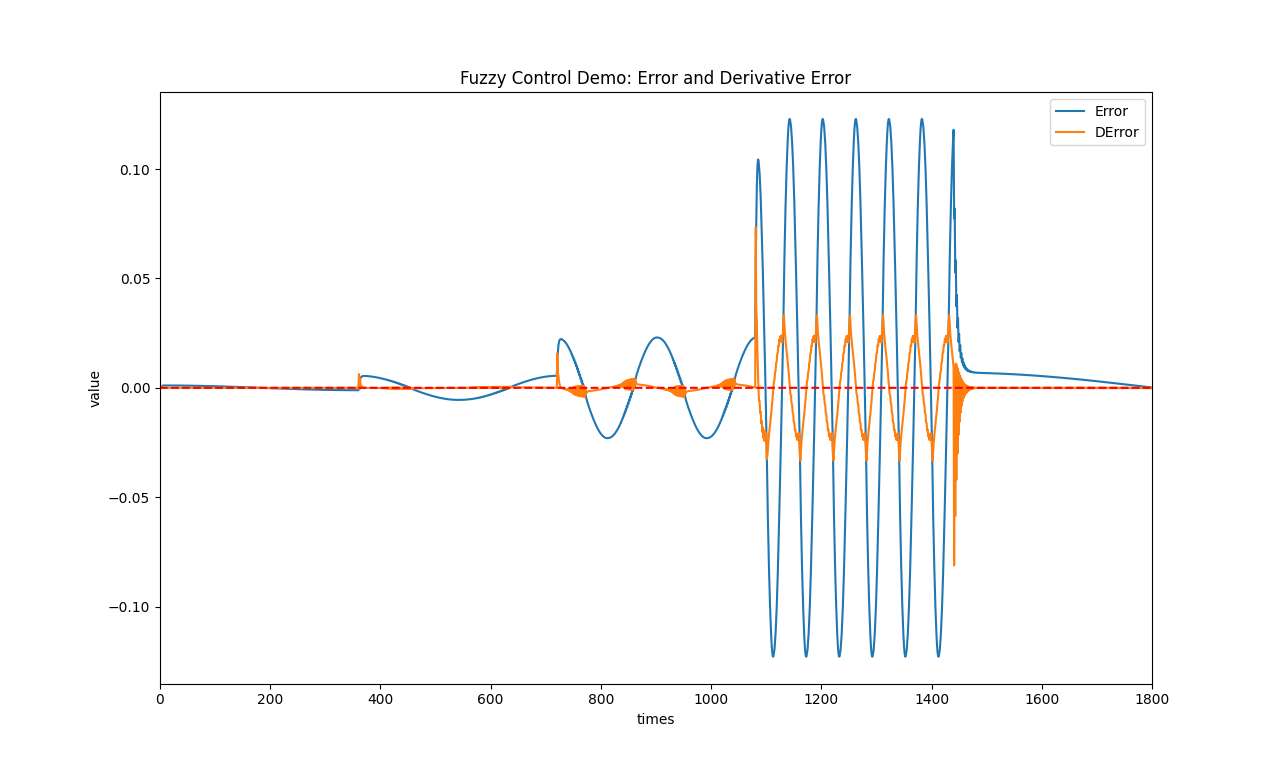
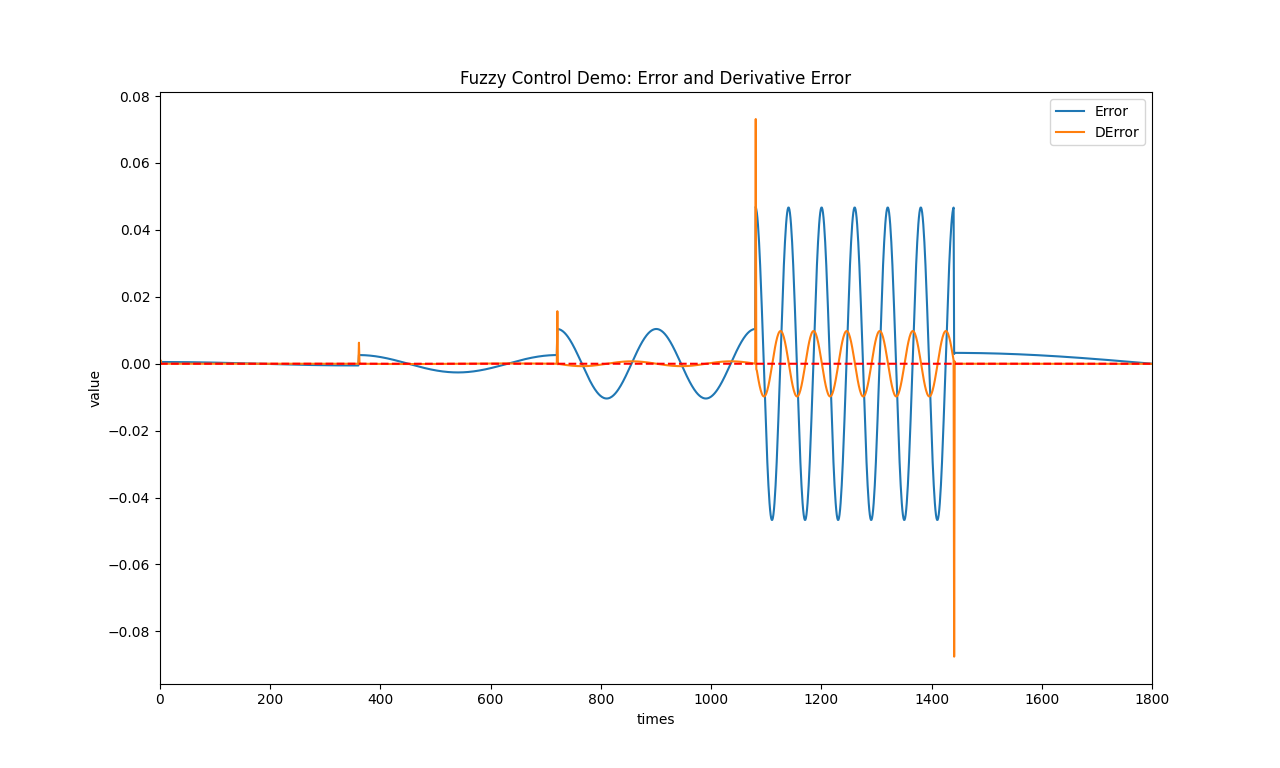
feat: add ratio control for controller switch checker

diff --git a/src/fuzzy_logic.cc b/src/fuzzy_logic.cc
@@ -122,10 +122,9 @@ void FuzzyLogic::rangeCheck(scalar& input, Membership* ptr) {
 }
 
 bool FuzzyLogic::controllerSwitchCheck(void) {
-    scalar ratio = 1.0 / 2.0;
-    if (control_.err > e->membership_->getMaximum() * ratio || control_.err < e->membership_->getMinimum() * ratio) {
+    if (control_.err > e->membership_->getMaximum() * ratio_ || control_.err < e->membership_->getMinimum() * ratio_) {
         return true;
-    } else if (control_.d_err > ec->membership_->getMaximum() * ratio || control_.d_err < ec->membership_->getMinimum() * ratio) {
+    } else if (control_.d_err > ec->membership_->getMaximum() * ratio_ || control_.d_err < ec->membership_->getMinimum() * ratio_) {
         return true;
     }
 

diff --git a/include/fuzzy/fuzzy_logic.h b/include/fuzzy/fuzzy_logic.h
@@ -89,6 +89,7 @@ class FuzzyLogic {
 
         scalar algo(const Control_t input, bool use_p_ctrl = false, const scalar output_exp_scale = 0.0);
         void setFuzzyRules(const Matrix &rule_table);
+        void setSwitchRatio(double ratio) { ratio_ = ratio; }
         void getInfo(void);
 
 #if FC_USE_MATPLOTLIB
@@ -117,6 +118,7 @@ class FuzzyLogic {
         std::unordered_map<int, scalar>inference_map_;
 
         Err_t control_;
+        double ratio_;
 };
 
 }
